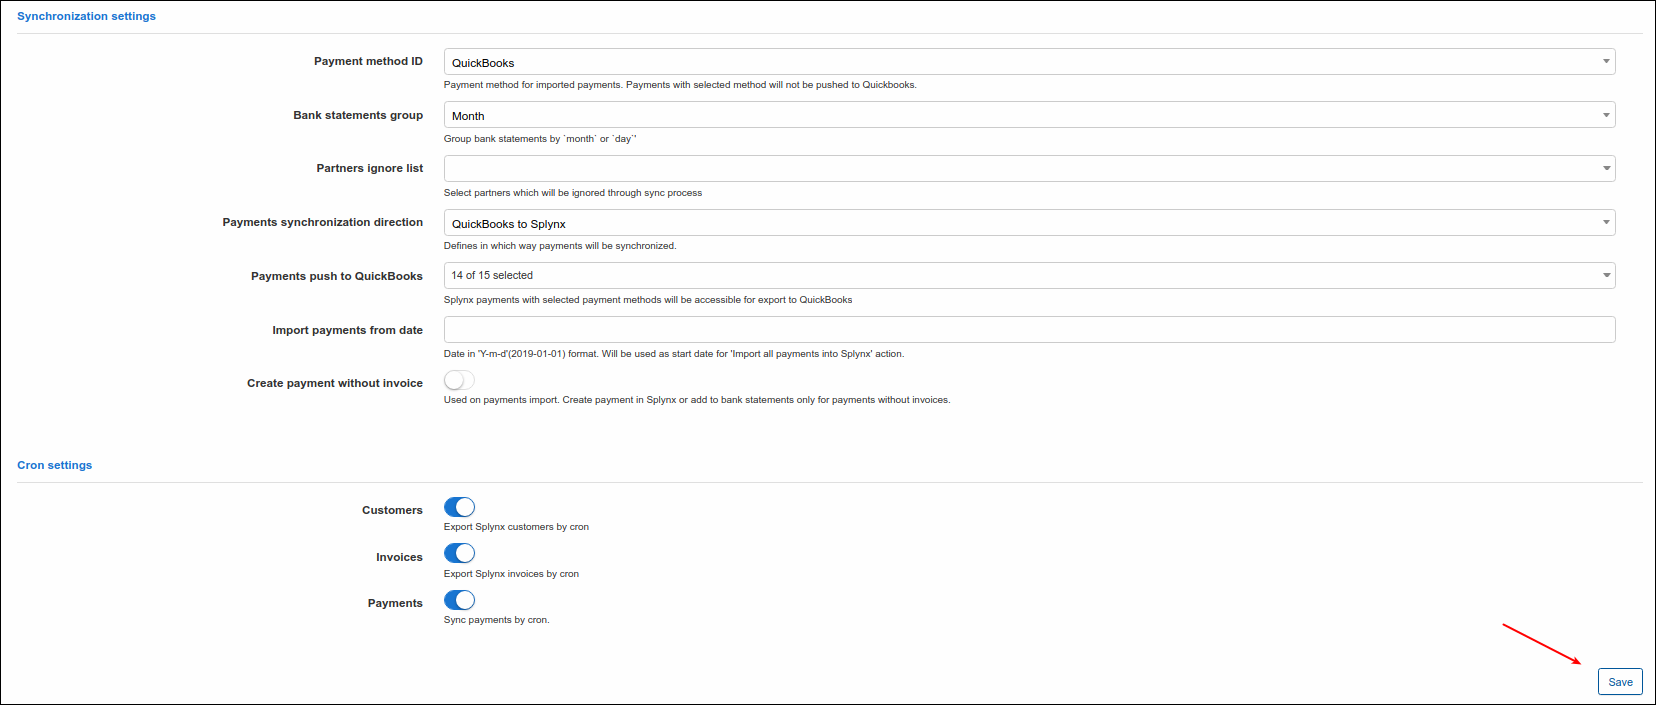
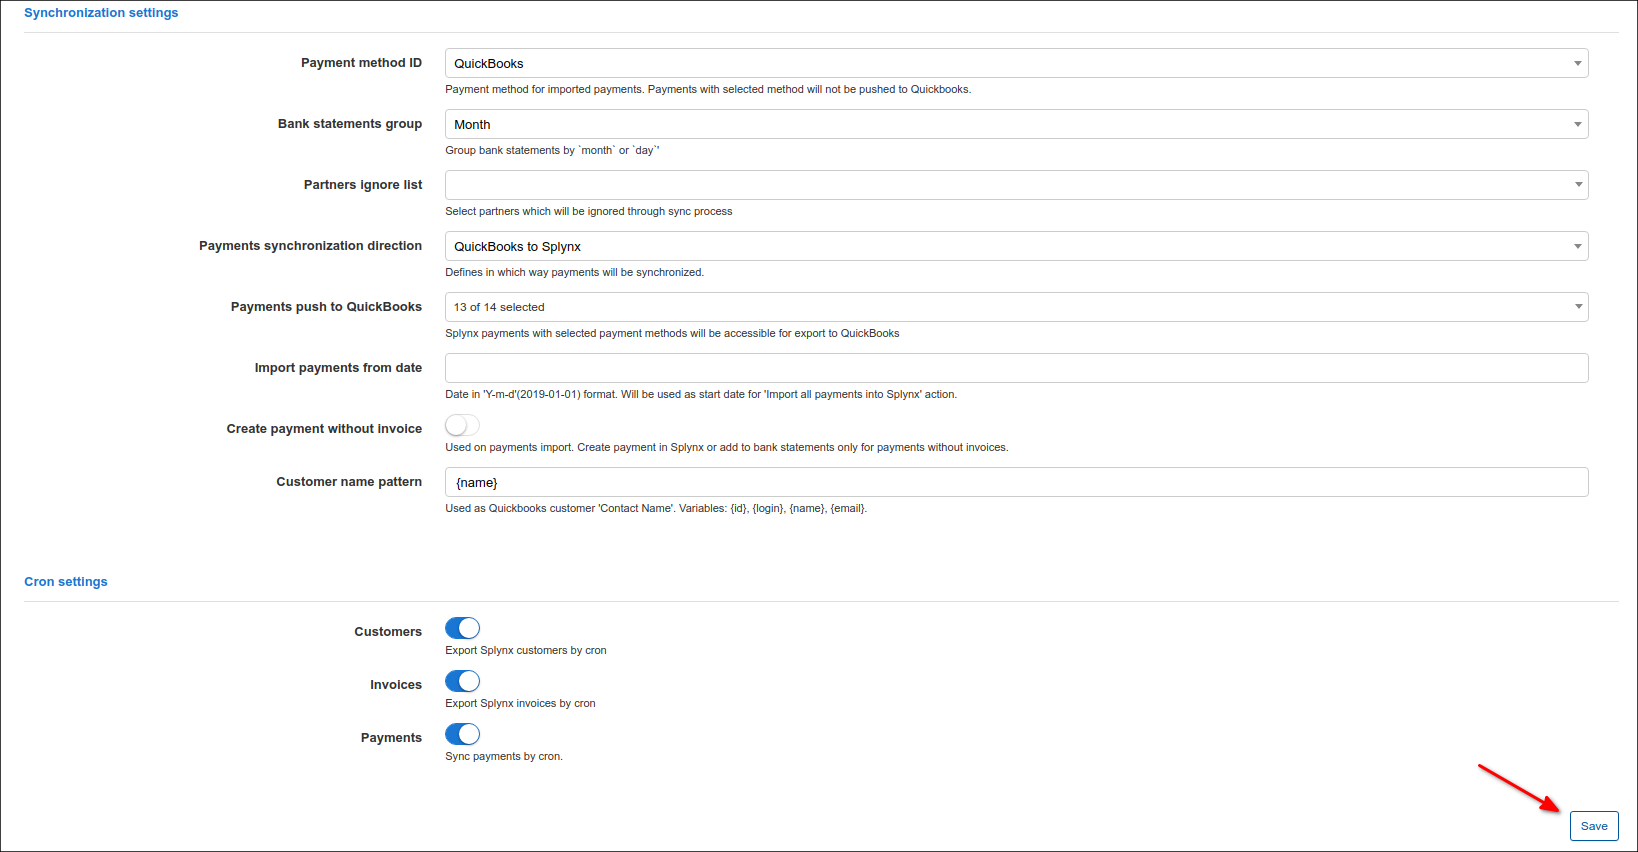
Name pattern to QuickBooks from SAQB-79

diff --git a/files/en/addons_modules/quickbooks/quickbooks.md b/files/en/addons_modules/quickbooks/quickbooks.md
@@ -68,7 +68,21 @@ _Please note that you do not have to select QuickBooks in the list of payment me
 
 **Import payments from date** - specify the date in 'Y-m-d'(2021-05-01) format, which will be used as the start date for importing all prepayments to Splynx;
 
-**Create payment without invoice** - create payment in Splynx or add to bank statements only for payments without invoices (used on payments import).
+**Create payment without invoice** - create payment in Splynx or add to bank statements only for payments without invoices (used on payments import);
+
+**Customer name pattern** - used to set a customer's name pattern during sync to *QuickBooks* where it will be represented as **Display name as**. The next variables can be used: `{id}, {login}, {name}, {email}`. By default: `{name}`.
+
+<details>
+<summary><b>name display example</b></summary>
+<p markdown="1">
+
+![](display_name_example1.png)
+
+![](display_name_example2.png)
+
+</p>
+</details>
+
 
 ### Cron settings
 
